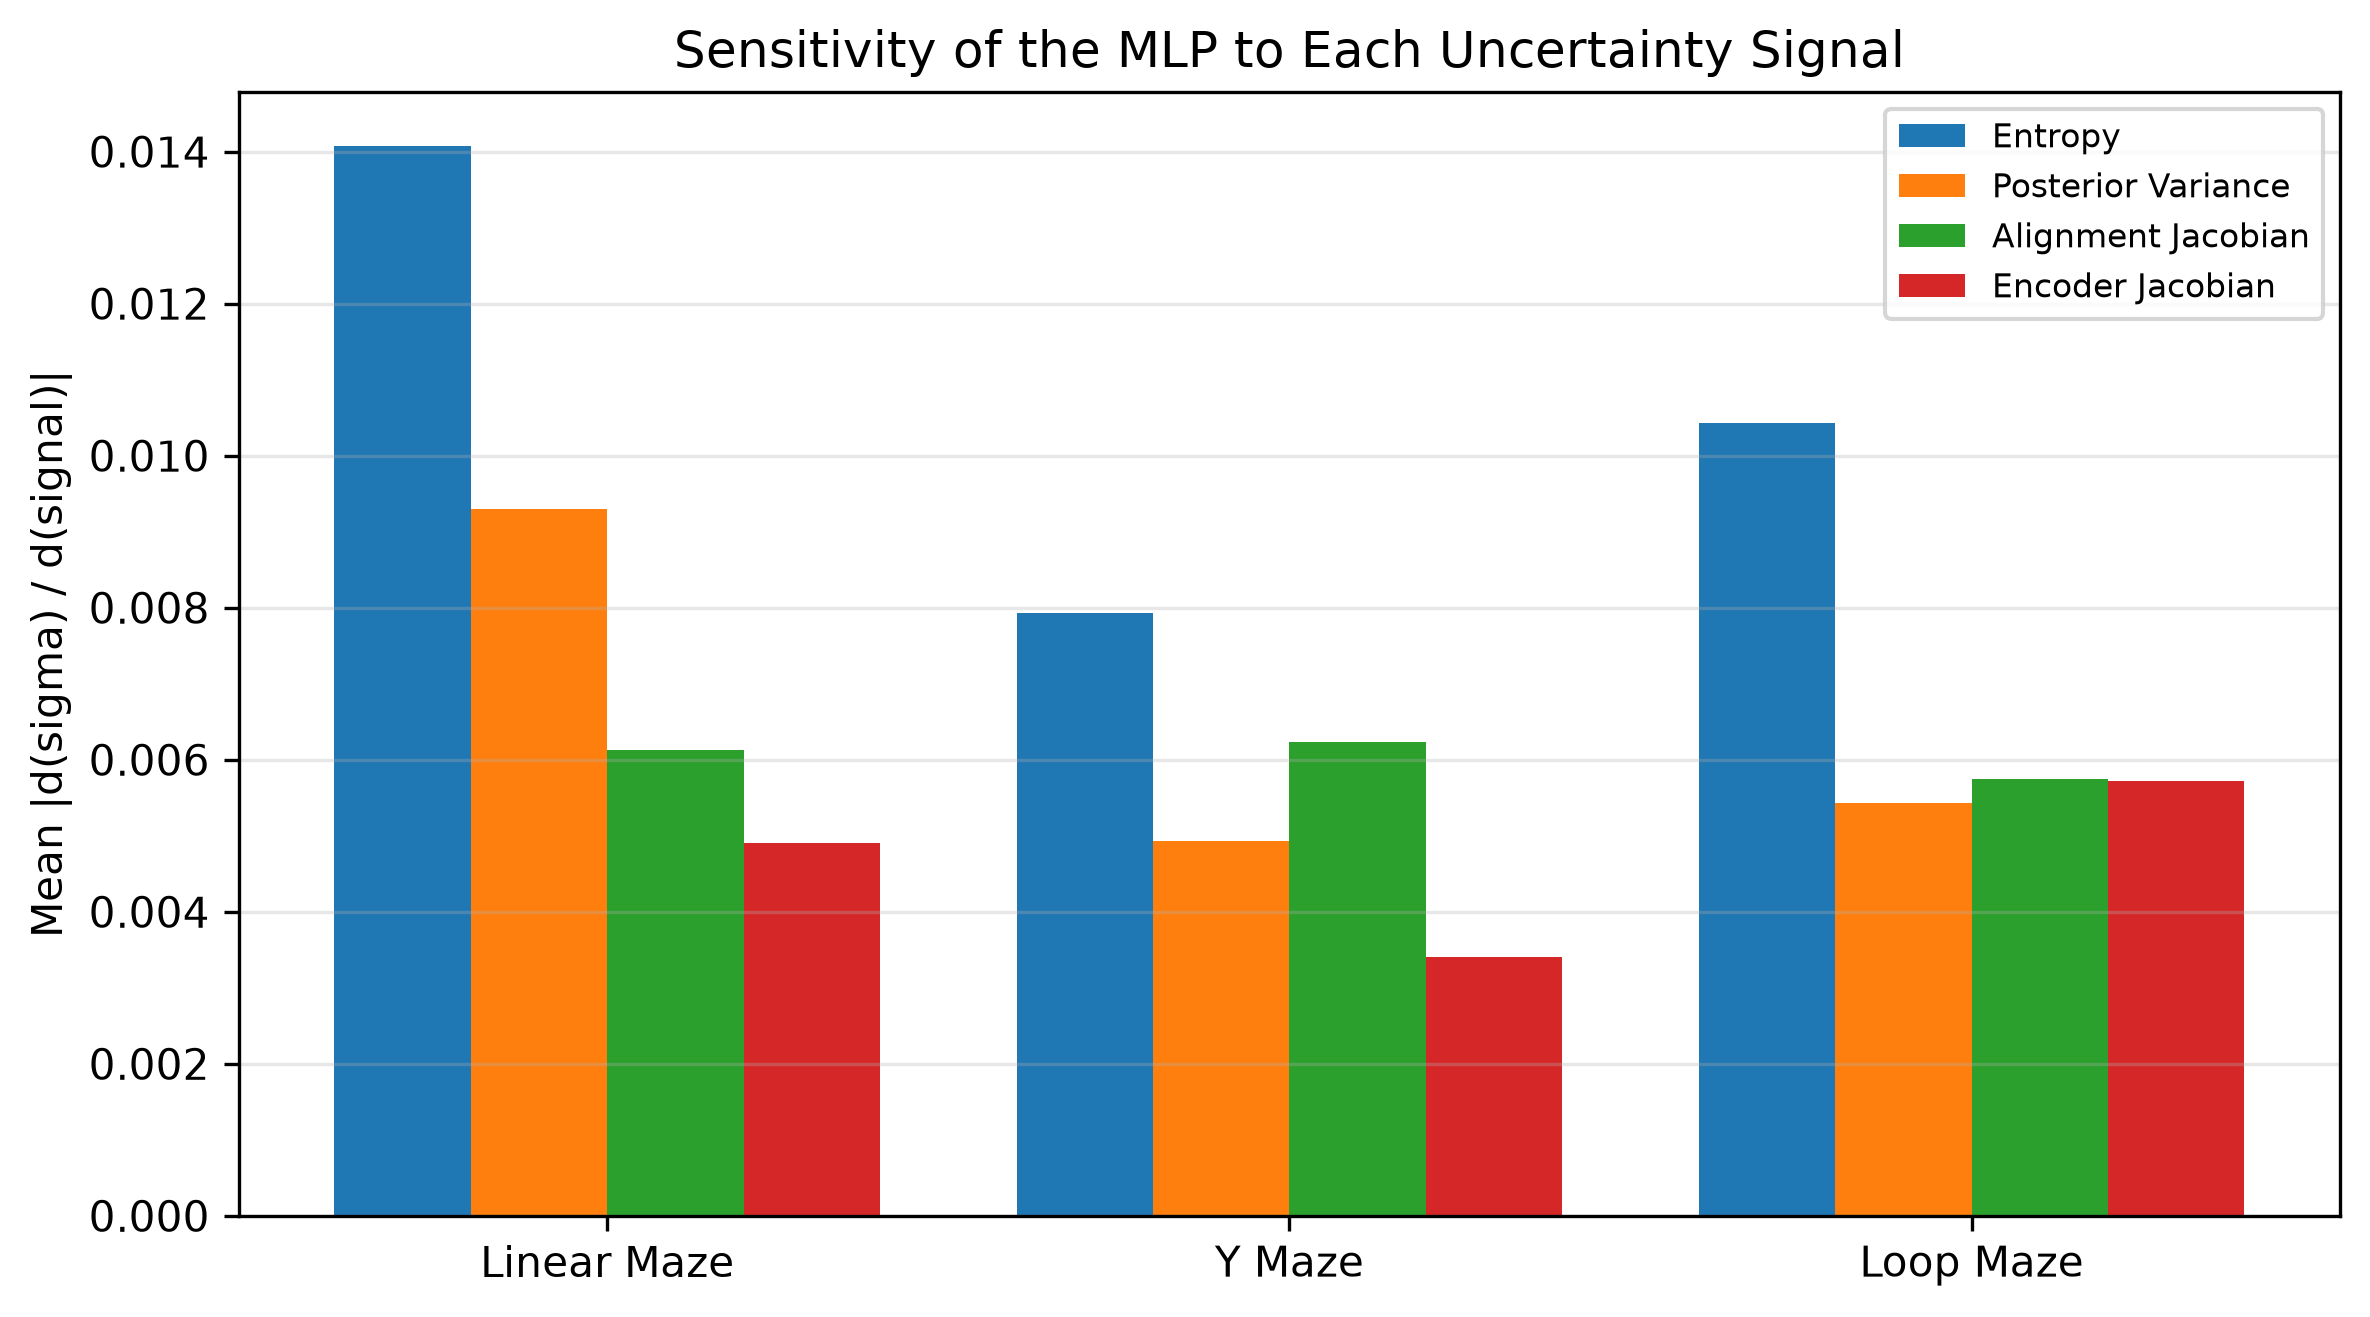
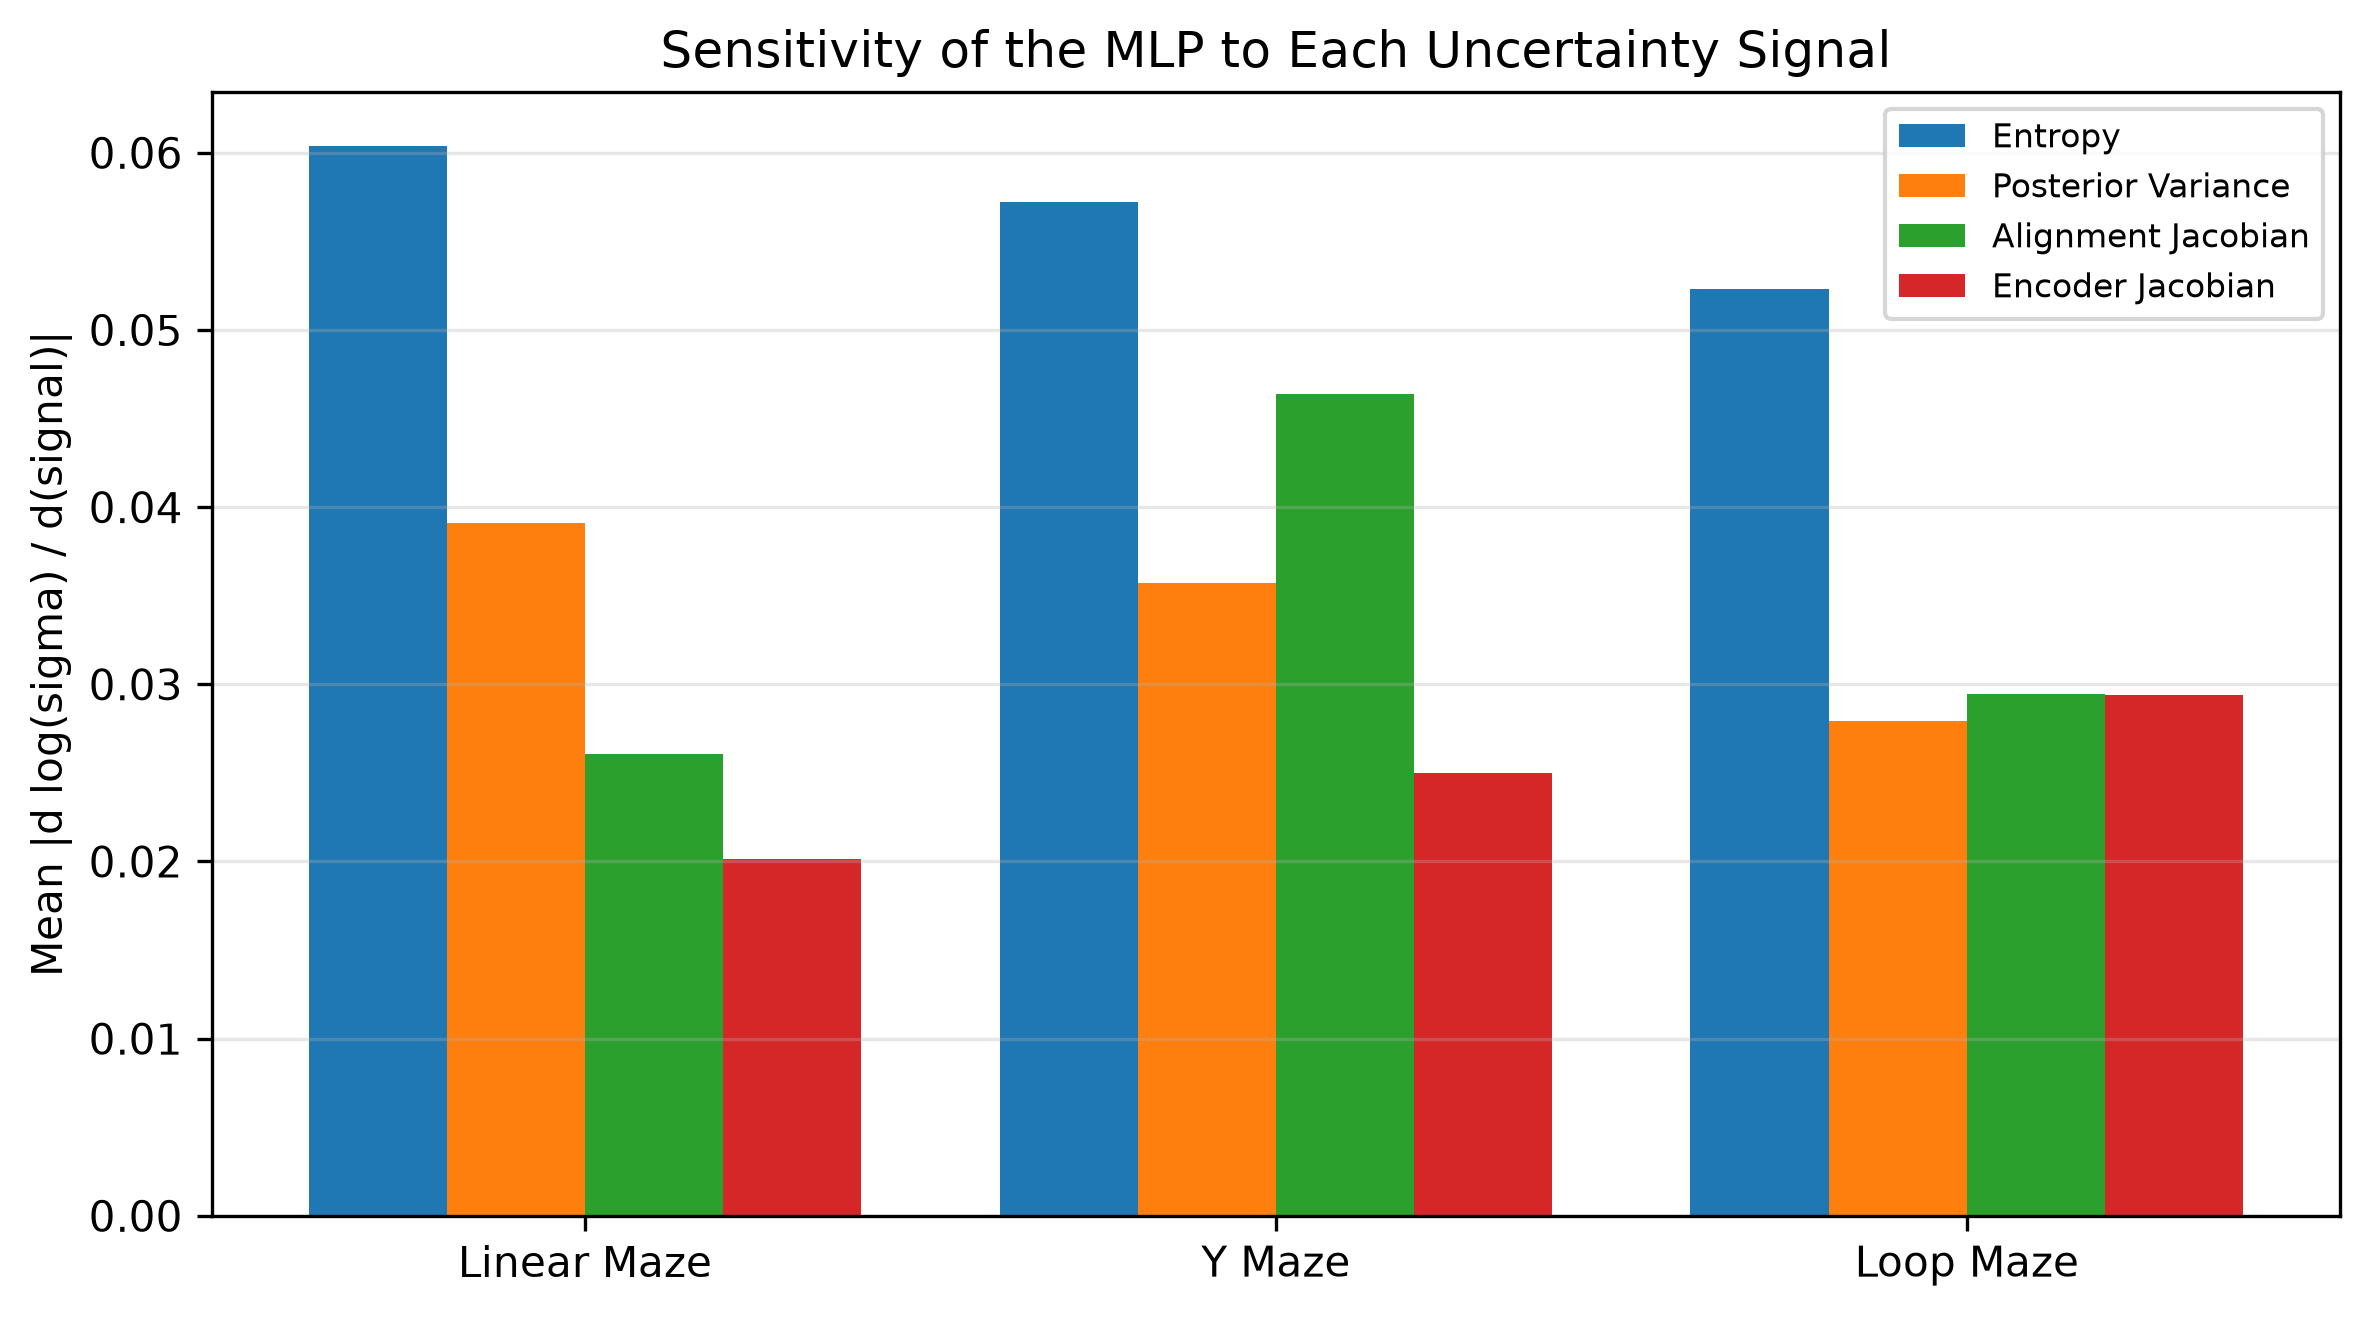
docs(paper): correct uncertainty results and sensitivity figure
Report grouped decoder-error correlations, including the negative Loop Maze result, and replace the sensitivity figure with a scale-invariant gradient in the paper and README.

diff --git a/paper/main.tex b/paper/main.tex
@@ -45,7 +45,7 @@
 \maketitle
 
 \begin{abstract}
-A major challenge for the lasting reliability of brain-computer interfaces in real world conditions is neural drift, which degrades decoder performance and makes them unreliable over time. To evaluate the decline in accuracy, it's necessary to have recent labeled data, which is expensive and impractical in real life settings. This paper studies a learned class-conditional split-conformal layer to measure uncertainty in neural decoding models, without requiring new labeled data. A behavior-constrained variational autoencoder and a Transformer alignment decoder predict the maze region occupied by a mouse, then the conformal layer outputs a trust region of plausible maze regions. The approach was tested using electrophysiological data from flexible brain probes in 13 mice as they went through 3 virtual-reality mazes. For a targeted 90\% trust region accuracy, the method achieved 81.4\% to 86.5\% test accuracy when constructing trust regions that included the true maze region. While the trust region size positively correlated with decoder error. These results show that the proposed model gives a signal for decoding uncertainty, which is promising for long-term reliability in brain-computer interfaces. Nevertheless, a more thorough comparison with different methods and additional decoding models is necessary before broad implementation.
+A major challenge for the lasting reliability of brain-computer interfaces in real world conditions is neural drift, which degrades decoder performance and makes them unreliable over time. To evaluate the decline in accuracy, it's necessary to have recent labeled data, which is expensive and impractical in real life settings. This paper studies a learned class-conditional split-conformal layer to measure uncertainty in neural decoding models, without requiring new labeled data. A behavior-constrained variational autoencoder and a Transformer alignment decoder predict the maze region occupied by a mouse, then the conformal layer outputs a trust region of plausible maze regions. The approach was tested using electrophysiological data from flexible brain probes in 13 mice as they went through 3 virtual-reality mazes. For a targeted 90\% trust region accuracy, the method achieved 81.4\% to 86.5\% test accuracy when constructing trust regions that included the true maze region. The trust region size correlated positively with decoder error in two of the three mazes and negatively in the third. These results show that the proposed model gives a signal for decoding uncertainty, which is promising for long-term reliability in brain-computer interfaces. Nevertheless, a more thorough comparison with different methods and additional decoding models is necessary before broad implementation.
 \end{abstract}
 
 \section{Introduction}
@@ -372,12 +372,12 @@ The results per region show that test coverage differs across maze regions and s
 \end{figure}
 
 \subsection{Decoder error correlations}
-Table~\ref{tab:within-chunk} reports the Pearson correlation of test decoder error with the normalized trust region size and the learned uncertainty scale $\sigma_\theta(x)$. Positive correlations indicate that the conformal layer produces a higher $\sigma_\theta(x)$ and creates larger trust regions when the decoder error gets bigger.
+Table~\ref{tab:within-chunk} reports the Pearson correlation of test decoder error with the normalized trust region size and the learned uncertainty scale $\sigma_\theta(x)$. Decoder error is 0 or 1 for a single data point, so test data points are first grouped, as described in the caption, and each group contributes its error rate. Positive correlations indicate that the conformal layer produces a higher $\sigma_\theta(x)$ and creates larger trust regions where the decoder errs more often.
 
-All 3 mazes show positive correlations. The strongest relationship appears in the Linear Maze, where the correlation reaches 0.88 for trust region size and 0.89 for the learned scale. The Y and Loop Mazes show still good, but weaker correlations.
+The Linear Maze shows strong positive correlations, 0.86 for trust region size and 0.99 for the learned scale. The Y Maze shows weaker positive correlations. In the Loop Maze both correlations are negative: the decoder errs more often where the trust regions are smaller, so there the conformal layer does not track decoder error.
 
 \begin{table}[t]
-  \caption{Decoder error Pearson correlations. The first correlation uses the mean normalized trust region size $|\widehat{\mathcal{C}}|/K$. The second uses the MLP uncertainty scale $\sigma_\theta(x)$. Positive values indicate that decoder errors tend to coincide with larger trust regions or larger MLP scales.}
+  \caption{Decoder error Pearson correlations over grouped test data points. The first correlation groups by normalized trust region size $|\widehat{\mathcal{C}}|/K$, one group per size level. The second groups by the MLP uncertainty scale $\sigma_\theta(x)$, in 10 equal-count bins. Each group contributes its error rate and is weighted by its number of data points. Positive values indicate that decoder errors tend to coincide with larger trust regions or larger MLP scales.}
   \label{tab:within-chunk}
   \centering\footnotesize
   \begin{tabular}{@{}l c c@{}}
@@ -386,9 +386,9 @@ All 3 mazes show positive correlations. The strongest relationship appears in th
     & corr(decoder error, $|\widehat{\mathcal{C}}|/K$)
     & corr(decoder error, $\sigma_\theta(x)$) \\
     \midrule
-    Linear Maze & $+0.88$ & $+0.89$ \\
-    Y Maze       & $+0.28$ & $+0.73$ \\
-    Loop Maze    & $+0.56$ & $+0.34$ \\
+    Linear Maze & $+0.86$ & $+0.99$ \\
+    Y Maze       & $+0.61$ & $+0.68$ \\
+    Loop Maze    & $-0.78$ & $-0.86$ \\
     \bottomrule
   \end{tabular}
 \end{table}
@@ -401,7 +401,7 @@ However, the remaining signals also show comparable sensitivity, suggesting that
 \begin{figure}[t]
   \centering
   \includegraphics[width=0.7\linewidth]{signal-confound.png}
-  \caption{Sensitivity of the learned conformal scale to each uncertainty signal. Bars show the mean variation of $\sigma_\theta(x)$ with respect to each input uncertainty signal, averaged over the test set for each maze. Larger values indicate that local changes in that signal produce larger changes in the MLP output.}
+  \caption{Sensitivity of the learned conformal scale to each uncertainty signal. Bars show the mean relative change of $\sigma_\theta(x)$, $|\partial \log \sigma_\theta(x) / \partial z|$, per standard deviation $z$ of each input uncertainty signal, averaged over the test set for each maze. The relative change does not depend on the overall level of $\sigma_\theta(x)$, so the mazes can be compared directly.}
   \label{fig:signal-confound}
 \end{figure}
 
@@ -416,7 +416,7 @@ The test coverage spread across sessions indicates that the drift tax is not uni
 \subsection{Decoder performance}
 The results show that decoder performance directly translates to conformal layer performance. The Linear Maze has the highest decoder accuracy, producing the sharpest trust regions and the lowest coverage and sharpness curve. Whereas the Y and Loop Mazes have lower decoder accuracy and require broader trust regions to maintain coverage. This is consistent with the intended role of the conformal layer, as it's not designed to correct decoder errors, but to express lower confidence by returning wider trust regions.
 
-When the encoding-decoding pipeline uncertainty signals indicate high distrust, the conformal layer has no other option but to create wider trust regions to avoid sacrificing coverage. Therefore, the decoder accuracy limits how sharp the trust regions can be. The different results in trust region sharpness across mazes, along with the decoder error's positive correlations with trust region size and the MLP output, support the interpretation that the conformal layer serves as a warning signal for decoder error.
+When the encoding-decoding pipeline uncertainty signals indicate high distrust, the conformal layer has no other option but to create wider trust regions to avoid sacrificing coverage. Therefore, the decoder accuracy limits how sharp the trust regions can be. The different results in trust region sharpness across mazes, along with the positive correlations of decoder error with trust region size and the MLP output in the Linear and Y Mazes, support the interpretation that the conformal layer tracks decoder uncertainty in those mazes. In the Loop Maze the correlations are negative, so there the conformal layer does not track decoder error.
 
 \subsection{Classes imbalance}
 The analysis per region in Figure~\ref{fig:per-region} shows why a class-conditional conformal method is important for imbalanced datasets. The data used in this paper has a highly imbalanced label distribution. Not using a class-conditional approach would mean using a single conformal threshold, so conformal scores would not be stored per maze region. In this case, a single threshold would set the rule for the entire maze, determining which regions to include in the trust region.

diff --git a/README.md b/README.md
@@ -2,7 +2,7 @@
 
 <div align="justify">
 
-A major challenge for the lasting reliability of brain-computer interfaces in real world conditions is neural drift, which degrades decoder performance and makes them unreliable over time. To evaluate the decline in accuracy, it's necessary to have recent labeled data, which is expensive and impractical in real life settings. This paper studies a learned class-conditional split-conformal layer to measure uncertainty in neural decoding models, without requiring new labeled data. A behavior-constrained variational autoencoder and a Transformer alignment decoder predict the maze region occupied by a mouse, then the conformal layer outputs a trust region of plausible maze regions. The approach was tested using electrophysiological data from flexible brain probes in 13 mice as they went through 3 virtual-reality mazes. For a targeted 90\% trust region accuracy, the method achieved 81.4\% to 86.5\% test accuracy when constructing trust regions that included the true maze region. While the trust region size positively correlated with decoder error. These results show that the proposed model gives a signal for decoding uncertainty, which is promising for long-term reliability in brain-computer interfaces. Nevertheless, a more thorough comparison with different methods and additional decoding models is necessary before broad implementation.
+A major challenge for the lasting reliability of brain-computer interfaces in real world conditions is neural drift, which degrades decoder performance and makes them unreliable over time. To evaluate the decline in accuracy, it's necessary to have recent labeled data, which is expensive and impractical in real life settings. This paper studies a learned class-conditional split-conformal layer to measure uncertainty in neural decoding models, without requiring new labeled data. A behavior-constrained variational autoencoder and a Transformer alignment decoder predict the maze region occupied by a mouse, then the conformal layer outputs a trust region of plausible maze regions. The approach was tested using electrophysiological data from flexible brain probes in 13 mice as they went through 3 virtual-reality mazes. For a targeted 90\% trust region accuracy, the method achieved 81.4\% to 86.5\% test accuracy when constructing trust regions that included the true maze region. The trust region size correlated positively with decoder error in two of the three mazes and negatively in the third. These results show that the proposed model gives a signal for decoding uncertainty, which is promising for long-term reliability in brain-computer interfaces. Nevertheless, a more thorough comparison with different methods and additional decoding models is necessary before broad implementation.
 
 ## Authors
 
@@ -86,11 +86,11 @@ The next result checks whether the conformal layer behaves like a useful uncerta
 
 | Maze | corr(decoder error, `\|C\|/K`) | corr(decoder error, `σθ(x)`) |
 |---|---|---|
-| Linear Maze | +0.88 | +0.89 |
-| Y Maze | +0.28 | +0.73 |
-| Loop Maze | +0.56 | +0.34 |
+| Linear Maze | +0.86 | +0.99 |
+| Y Maze | +0.61 | +0.68 |
+| Loop Maze | -0.78 | -0.86 |
 
-Table 2: Decoder error Pearson correlations. The first correlation uses the mean normalized trust region size $|\widehat{\mathcal{C}}|/K$. The second uses the MLP uncertainty scale $\sigma_\theta(x)$. Positive values indicate that decoder errors tend to coincide with larger trust regions or larger MLP scales.
+Table 2: Decoder error Pearson correlations over grouped test data points. The first correlation groups by normalized trust region size $|\widehat{\mathcal{C}}|/K$, one group per size level. The second groups by the MLP uncertainty scale $\sigma_\theta(x)$, in 10 equal-count bins. Each group contributes its error rate and is weighted by its number of data points. Positive values indicate that decoder errors tend to coincide with larger trust regions or larger MLP scales.
 
 To interpret the learned scale, the last figure varies each uncertainty input and measures how strongly the MLP output responds.
 
@@ -98,7 +98,7 @@ To interpret the learned scale, the last figure varies each uncertainty input an
   <img src="docs/readme-images/signal-confound.png" alt="Sensitivity of the learned conformal scale to each uncertainty signal" width="820">
 </p>
 
-Figure 8: Sensitivity of the learned conformal scale to each uncertainty signal. Bars show the mean variation of $\sigma_\theta(x)$ with respect to each input uncertainty signal, averaged over the test set for each maze. Larger values indicate that local changes in that signal produce larger changes in the MLP output.
+Figure 8: Sensitivity of the learned conformal scale to each uncertainty signal. Bars show the mean relative change of $\sigma_\theta(x)$, $|\partial \log \sigma_\theta(x) / \partial z|$, per standard deviation $z$ of each input uncertainty signal, averaged over the test set for each maze. The relative change does not depend on the overall level of $\sigma_\theta(x)$, so the mazes can be compared directly.
 
 The paper's LaTeX source is in [`paper/`](paper/README.md).
 
